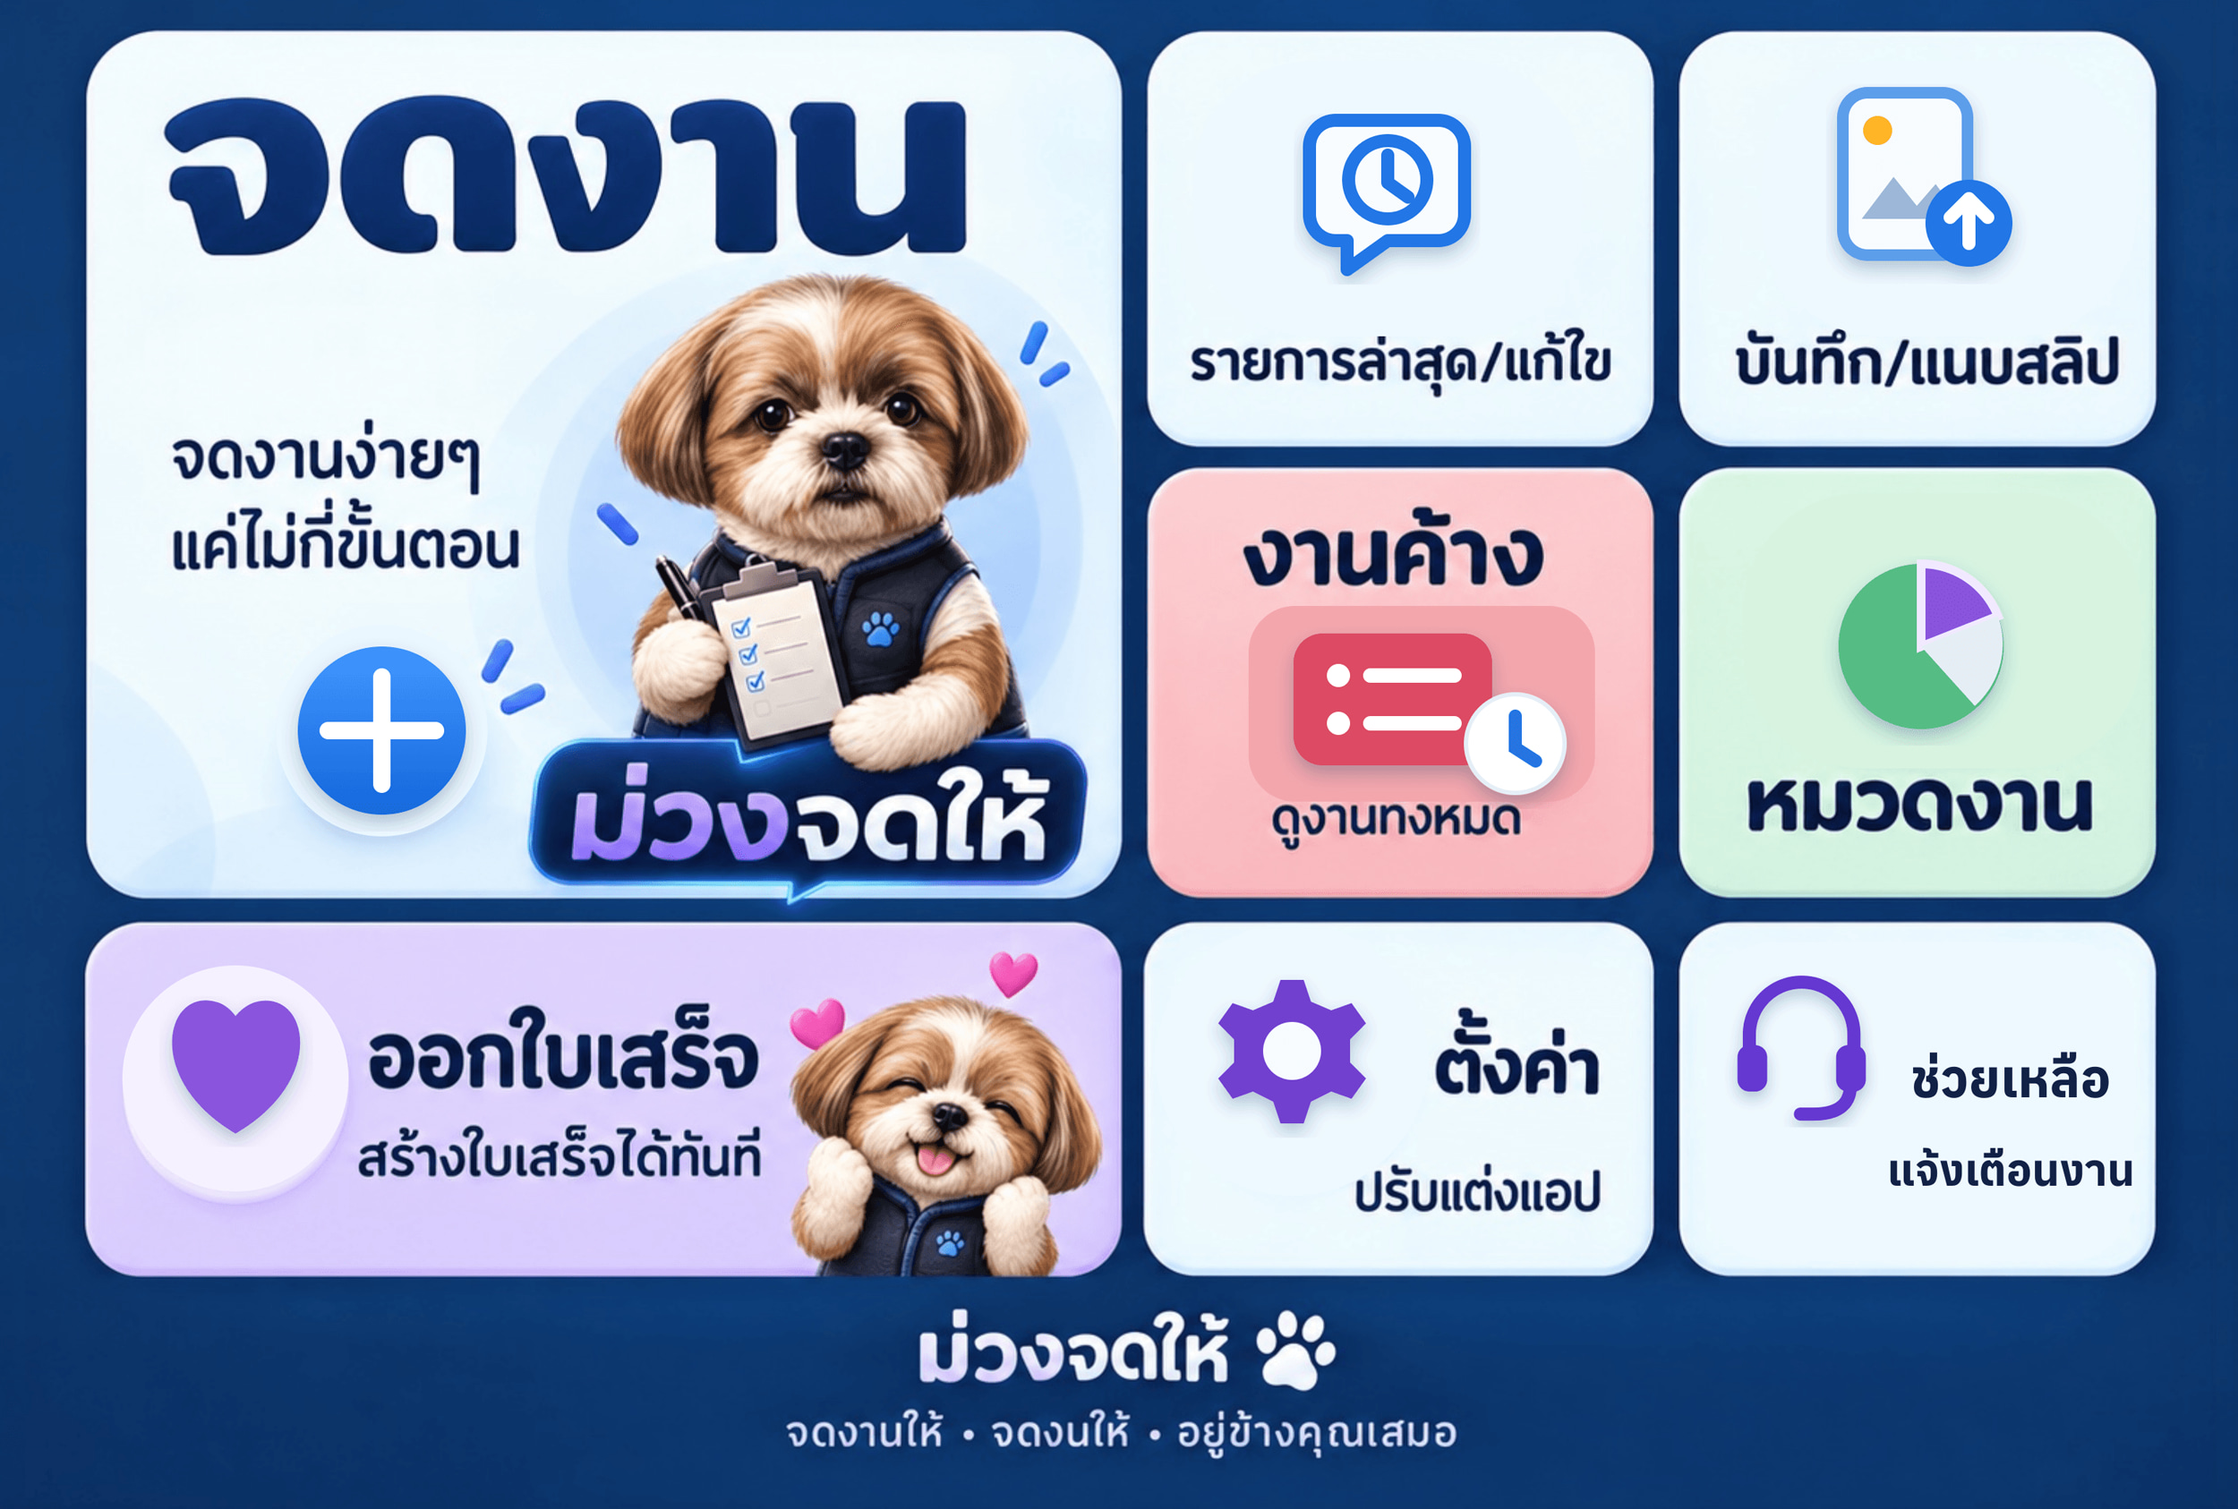
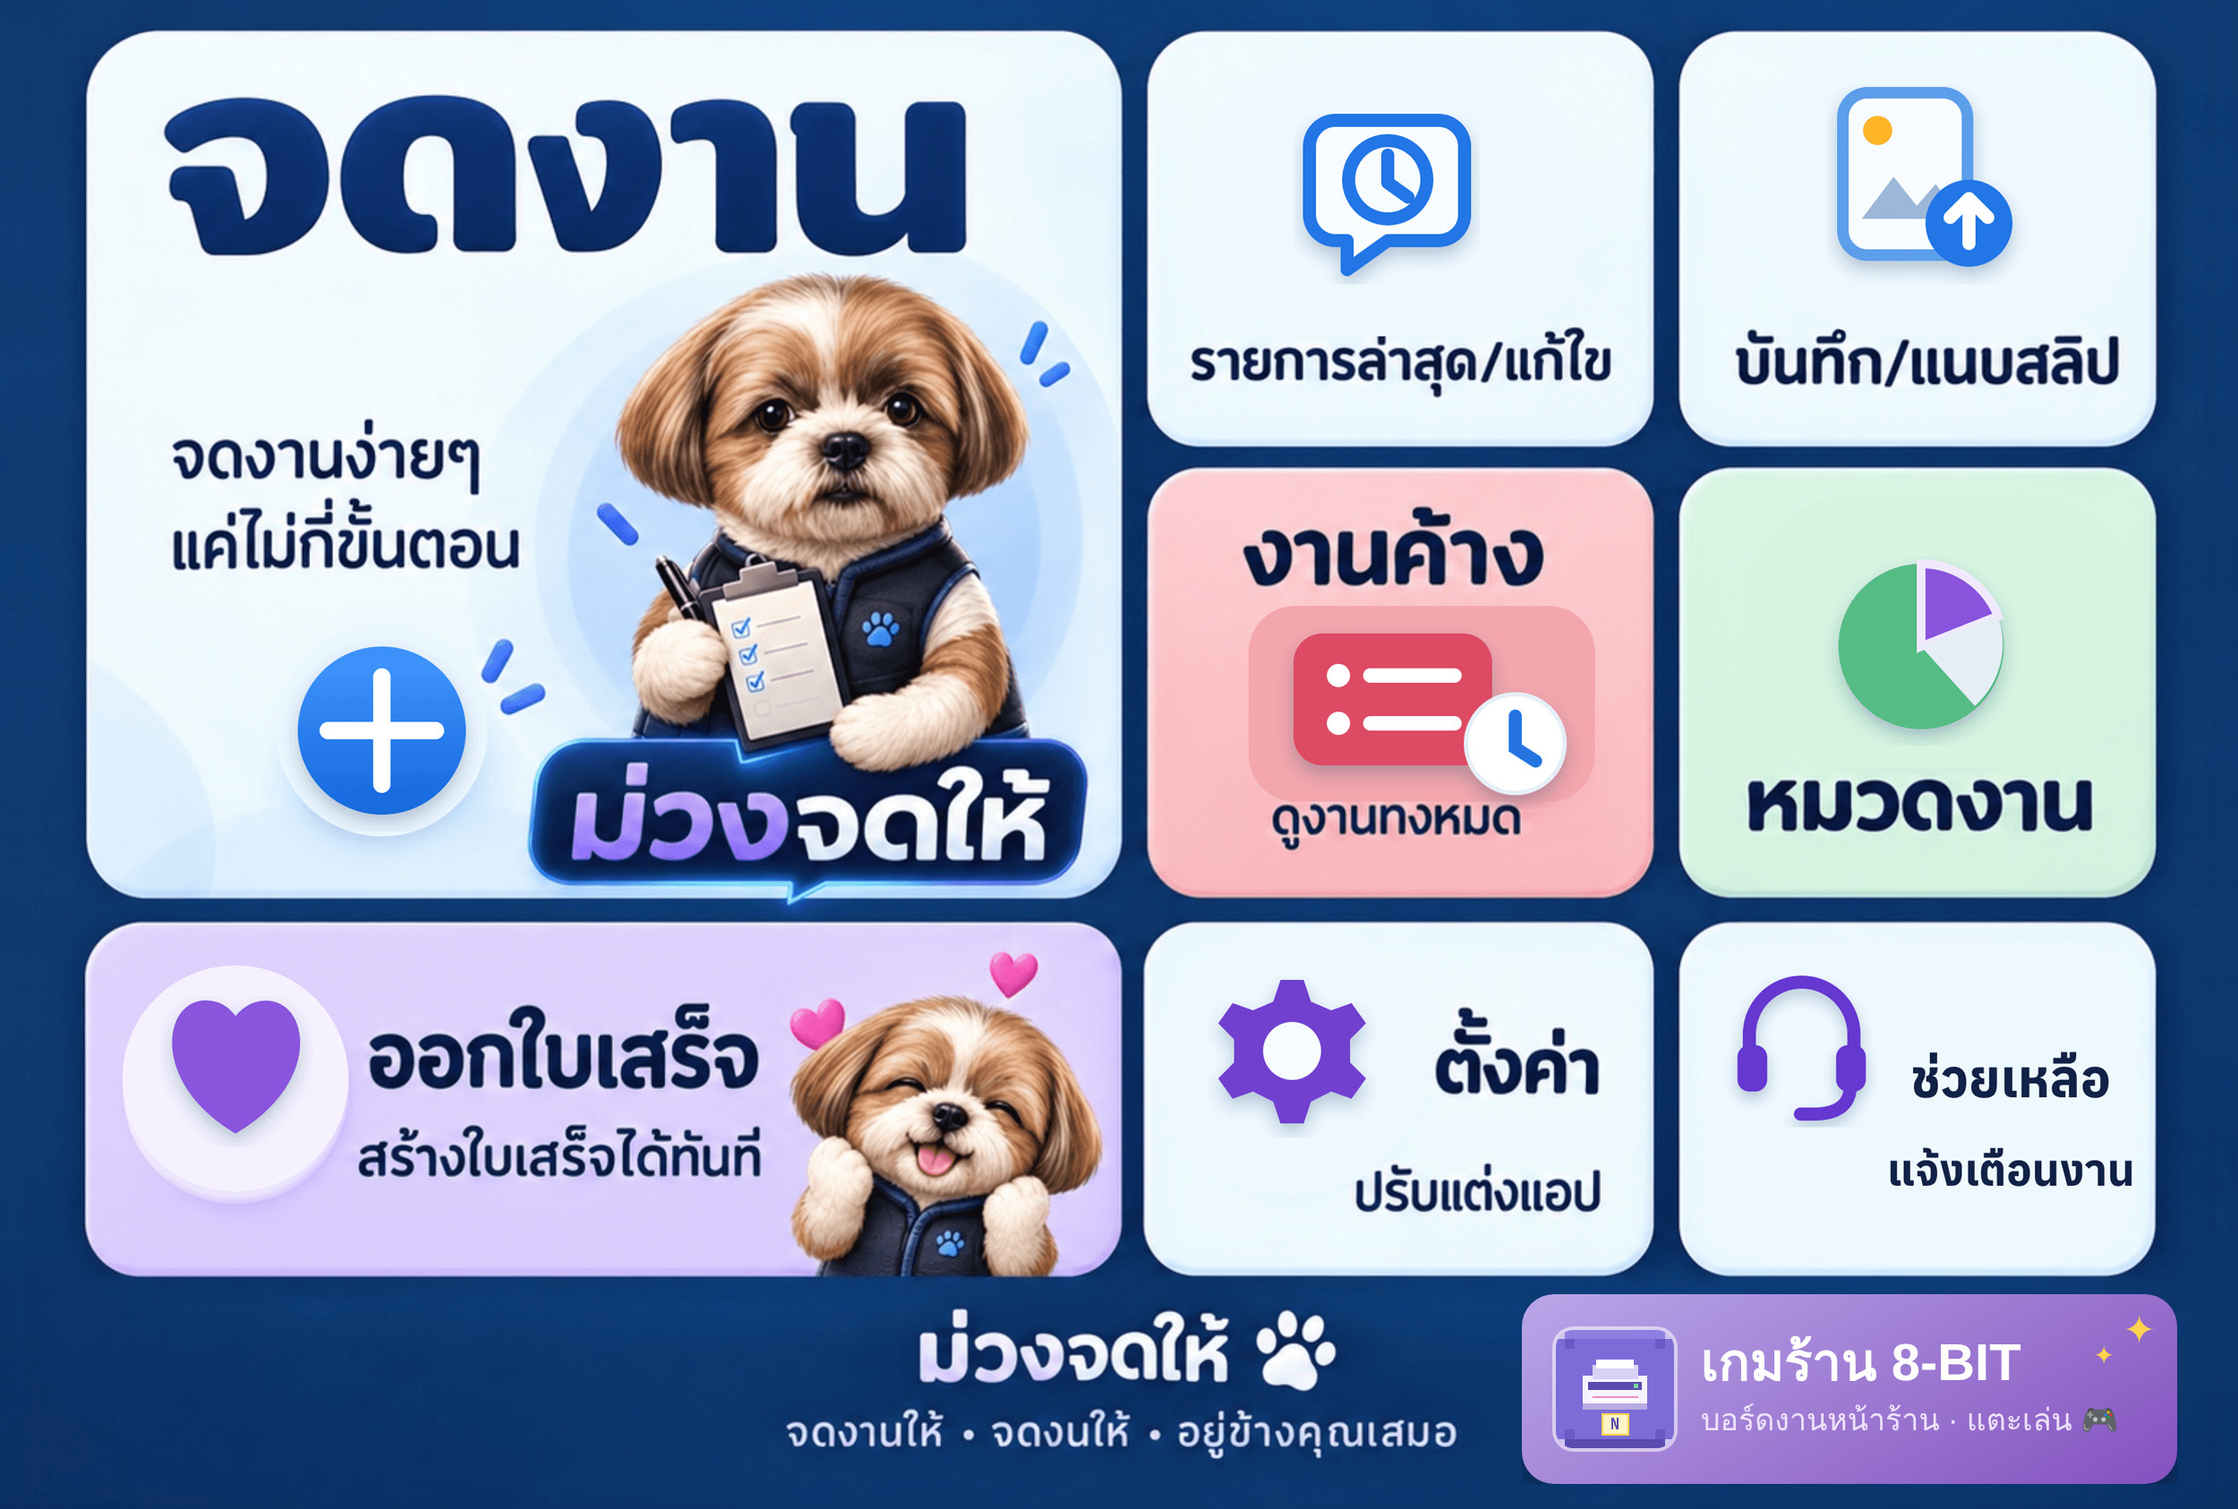
ปุ่มเกมร้าน 8-BIT บนริชเมนู — แตะแล้วเปิดเกมจากไลน์ได้เลย (#278)
ร้านสั่ง "เพิ่มไปในริชเมนู...จะได้เชื่อมในระบบ ปรับริชเมนูให้ด้วยค่ะ"
(นี่คือการอนุญาตเชื่อมเกมกับ LINE OA ตามเงื่อนไขของสเปกเกม)

- การ์ด "เกมร้าน 8-BIT ✦" วาง composite ลงมุมขวาล่างของภาพเมนูที่ร้านทำ
  (ม่วงไล่เฉด + ไอคอนเกม + แตะเล่น 🎮) ไม่แตะส่วนอื่นของภาพ encode รอบเดียว
  709KB < เพดาน 1MB ของ LINE
- พื้นที่กดเพิ่มเป็น 10 ช่อง: แถวแบรนด์หดเหลือซ้าย การ์ดเกมกินขวา
  (ต่อกันพอดีเต็มความกว้าง ไม่มีจุดบอด) ปุ่มเป็นลิงก์ PUBLIC_BASE_URL/game/
  ตรง ๆ — ไม่มีค่าก็ถอยไป postback action=open_game ให้บอตตอบลิงก์แทน
- สายข้อความครบวงจร: open_game ใน POSTBACK_ACTIONS + handler ตอบลิงก์เกม
  + พิมพ์ "เกม"/"เกมร้าน"/"เล่นเกม" ก็เปิดได้ (normalise เป็น 8-bit ตัวเล็ก)
- richmenu.json regenerate (10 พื้นที่) + stand-in ใน build-rich-menu.mjs
  วาดการ์ดเดียวกันเผื่อ redraw อนาคต + GAME_W ซิงก์สองไฟล์ตามเทสต์เรขาคณิต
- ติดตั้งเองอัตโนมัติ: ensureRichMenu ตอนบูตเห็นลายนิ้วมือภาพ/ปุ่มเปลี่ยน
  → อัปโหลดเมนูใหม่ให้เองหลัง deploy ไม่ต้องทำอะไรเพิ่ม

เทสต์: richMenu/buttonEcho ปรับตามผังใหม่ (เหตุผลคอมเมนต์กำกับ)
+ ลิงก์เกมเมื่อมี base URL + fallback เมื่อไม่มี — รวมทั้งชุด 1195 เขียว

Claude-Session: https://claude.ai/code/session_01HjQRr7qyQeJARpB6Ss4x4u

Changed region(s): [[0.6552, 0.8327, 0.9984, 0.987]]

diff --git a/tests/richMenu.test.js b/tests/richMenu.test.js
@@ -3,7 +3,7 @@ import assert from 'node:assert/strict';
 import { readFileSync } from 'node:fs';
 import { resolveMenuCommand } from '../src/utils/menuCommands.js';
 import { POSTBACK_ACTIONS } from '../src/utils/validation.js';
-import { buildAreas, LAYOUT, BUTTONS, FOOTER } from '../scripts/create-rich-menu.js';
+import { buildAreas, LAYOUT, BUTTONS, FOOTER, GAME } from '../scripts/create-rich-menu.js';
 import { richMenuObject } from '../scripts/export-rich-menu-json.mjs';
 
 // The Rich Menu is artwork plus a list of tappable rectangles, kept in step by
@@ -13,8 +13,8 @@ const builder = readFileSync(new URL('../scripts/build-rich-menu.mjs', import.me
 const nOf = (key) => Number(new RegExp(`${key} = (\\d+)`).exec(builder)?.[1]);
 
 test('every button reaches a handler, by tap and by text', () => {
-  const all = [...BUTTONS, FOOTER];
-  assert.equal(all.length, 9, 'eight cards and the brand footer');
+  const all = [...BUTTONS, FOOTER, GAME];
+  assert.equal(all.length, 10, 'eight cards, the brand footer, and the game card');
 
   for (const btn of all) {
     const action = /action=([a-z_]+)/.exec(btn.data)?.[1];
@@ -32,7 +32,7 @@ const cOf = (key) => Number(new RegExp(`${key} = (\\d+)`).exec(config)?.[1]);
 test('the artwork and the tap areas describe the same geometry', () => {
   // Both files declare the grid independently; edit one alone and the buttons
   // drift off the cards they are drawn on.
-  for (const key of ['PAD', 'GAP_X', 'GAP_Y', 'LEFT_W', 'COL_W', 'ROW_H', 'ROW3_H', 'ROW1_Y']) {
+  for (const key of ['PAD', 'GAP_X', 'GAP_Y', 'LEFT_W', 'COL_W', 'ROW_H', 'ROW3_H', 'ROW1_Y', 'GAME_W']) {
     const drawn = nOf(key);
     const tapped = cOf(key);
     assert.ok(Number.isFinite(drawn), `${key} not declared in build-rich-menu.mjs`);
@@ -45,7 +45,7 @@ test('the artwork and the tap areas describe the same geometry', () => {
 
 test('the areas stay inside the image, never overlap, and are big enough to tap', () => {
   const areas = buildAreas();
-  assert.equal(areas.length, BUTTONS.length + 1);
+  assert.equal(areas.length, BUTTONS.length + 2); // + แถวแบรนด์ + การ์ดเกม
 
   for (const { bounds, action } of areas) {
     assert.ok(bounds.width >= 200 && bounds.height >= 200, `${action.displayText}: ${bounds.width}x${bounds.height} too small`);
@@ -93,9 +93,19 @@ test('จดงาน is the biggest target, and the brand footer is tappable', 
   const biggest = areas.reduce((a, b) => (a.bounds.width * a.bounds.height >= b.bounds.width * b.bounds.height ? a : b));
   assert.equal(biggest.action.data, jot.action.data, 'จดงาน should be the largest area');
 
-  const footer = areas.at(-1);
+  // เดิมแถวแบรนด์กินเต็มความกว้าง — ตั้งแต่ร้านสั่งเชื่อมเกม (23 พ.ย. 69)
+  // ปลายขวาของแถวเป็นการ์ดเกม สองพื้นที่ต่อกันพอดีเต็มความกว้างเหมือนเดิม
+  const footer = areas.at(-2);
+  const game = areas.at(-1);
   assert.equal(footer.action.data, FOOTER.data);
   assert.equal(footer.bounds.x, 0);
-  assert.equal(footer.bounds.width, LAYOUT.width);
   assert.equal(footer.bounds.y + footer.bounds.height, LAYOUT.height);
+  assert.equal(game.action.data ?? 'action=open_game', 'action=open_game');
+  assert.equal(footer.bounds.width + game.bounds.width, LAYOUT.width);
+  assert.equal(game.bounds.x + game.bounds.width, LAYOUT.width);
+  assert.equal(game.bounds.y + game.bounds.height, LAYOUT.height);
+  // มี PUBLIC_BASE_URL → ปุ่มเกมเป็นลิงก์เปิด /game/ ตรง ๆ
+  const linked = buildAreas({ PUBLIC_BASE_URL: 'https://shop.example' }).at(-1);
+  assert.equal(linked.action.type, 'uri');
+  assert.equal(linked.action.uri, 'https://shop.example/game/');
 });

diff --git a/scripts/create-rich-menu.js b/scripts/create-rich-menu.js
@@ -4,6 +4,7 @@ import path from 'node:path';
 import { pathToFileURL } from 'node:url';
 import linebot from '@line/bot-sdk';
 import { liffUrl, quickFormUrl } from '../src/utils/liff.js';
+import { publicBaseUrl } from '../src/utils/brand.js';
 
 const { MessagingApiClient, MessagingApiBlobClient } = linebot.messagingApi;
 
@@ -35,6 +36,8 @@ const ROW3_Y = ROW2_Y + ROW_H + GAP_Y;
 const ROW3_H = 400;
 const FOOT_Y = ROW3_Y + ROW3_H;
 const FOOT_H = LAYOUT.height - FOOT_Y;
+// ปุ่มเกมร้าน กินท้ายแถวแบรนด์ด้านขวา (ร้านขอเชื่อมเกมเข้าริชเมนู)
+const GAME_W = 840;
 
 // A tap area is grown to the gutter around its card, so a press that lands
 // between two cards still does something rather than nothing.
@@ -72,15 +75,26 @@ const BUTTONS = [
 ];
 
 // The brand footer. It reads as decoration, which is exactly why the old menu's
-// decorative panel had to be made tappable: people press the logo.
+// decorative panel had to be made tappable: people press the logo. The game
+// card now sits at its right end, so the brand's tap area stops where the
+// card's begins.
 const FOOTER = { label: 'ม่วงจดให้', data: 'action=home',
-  bounds: { x: 0, y: FOOT_Y, width: LAYOUT.width, height: FOOT_H } };
+  bounds: { x: 0, y: FOOT_Y, width: LAYOUT.width - GAME_W, height: FOOT_H } };
+
+// เกมร้าน NATTAPRON 8-BIT — เปิดหน้า /game/ ตรง ๆ (ร้านสั่งเชื่อมเองเมื่อ 23 พ.ย. 69)
+// ไม่ใช่แท็บของแอป LIFF จึงใช้ลิงก์จาก PUBLIC_BASE_URL; ไม่มีค่า → postback แทน
+const GAME = { label: 'เกมร้าน 8-BIT', data: 'action=open_game', page: 'game',
+  bounds: { x: LAYOUT.width - GAME_W, y: FOOT_Y, width: GAME_W, height: FOOT_H } };
 
 // Where a `page` button goes. 'jot' is the job form; the rest are tabs of the
 // dashboard app. Null whenever LIFF is not configured, which sends the button
 // back down the postback route.
 export function pageUrl(page, env = process.env) {
   if (!page) return null;
+  if (page === 'game') {
+    const base = publicBaseUrl(env);
+    return base ? `${base}/game/` : null;
+  }
   return page === 'jot' ? quickFormUrl({}, env) : liffUrl({ tab: page }, env);
 }
 
@@ -103,12 +117,12 @@ function area(btn, env = process.env) {
   };
 }
 
-// The nine tappable areas: eight cards, then the brand footer.
+// The ten tappable areas: eight cards, the brand footer, then the game card.
 export function buildAreas(env = process.env) {
-  return [...BUTTONS, FOOTER].map((btn) => area(btn, env));
+  return [...BUTTONS, FOOTER, GAME].map((btn) => area(btn, env));
 }
 
-export { LAYOUT, BUTTONS, FOOTER };
+export { LAYOUT, BUTTONS, FOOTER, GAME };
 
 const CONTENT_TYPES = { '.jpg': 'image/jpeg', '.jpeg': 'image/jpeg', '.png': 'image/png' };
 

diff --git a/src/actions/webLinks.js b/src/actions/webLinks.js
@@ -9,6 +9,19 @@ const PAGES = [
   ['🧾 บัญชีรายวัน', 'ledger'],
 ];
 
+// action=open_game — ปุ่มเกมบนริชเมนู: ปกติปุ่มเป็นลิงก์เปิดเกมตรง ๆ อยู่แล้ว
+// เคสนี้คือทางสำรอง (เมนูที่ส่ง label เป็นข้อความ หรือยังไม่ได้ตั้ง PUBLIC_BASE_URL)
+export async function openGame({ replyToken }) {
+  const base = publicBaseUrl();
+  if (!base) {
+    return reply(replyToken, { type: 'text', text: 'ยังเปิดเกมไม่ได้ค่ะ ต้องตั้ง PUBLIC_BASE_URL ใน Render ก่อนนะคะ 💜' });
+  }
+  return reply(replyToken, {
+    type: 'text',
+    text: `🎮 เกมร้านนัฐภรณ์ 8-BIT เปิดเล่นได้เลยค่ะ\n${base}/game/\n\nบอร์ดงานหน้าร้านแบบเกม — คิวงาน รถส่งไวนิล และน้องหมาบนเคาน์เตอร์ 💜`,
+  });
+}
+
 // action=web_links — ลิงก์เปิดบนคอม/เบราว์เซอร์ ตอนไม่ได้ถือโทรศัพท์
 export async function webLinks({ replyToken }) {
   const base = publicBaseUrl();

diff --git a/tests/buttonEcho.test.js b/tests/buttonEcho.test.js
@@ -72,8 +72,10 @@ test('menu buttons that only open a page go straight there', () => {
 
 test('with no LIFF app the same buttons still work, through the bot', () => {
   assert.equal(pageUrl('jot', {}), null);
+  assert.equal(pageUrl('game', {}), null); // ไม่มี PUBLIC_BASE_URL → ปุ่มเกมก็ถอยไป postback
   const areas = buildAreas({});
-  assert.equal(areas.length, 9);
-  assert.equal(areas.filter((a) => a.action.type === 'postback').length, 9);
+  assert.equal(areas.length, 10); // 9 เดิม + การ์ดเกม (ร้านสั่งเชื่อม 23 พ.ย. 69)
+  assert.equal(areas.filter((a) => a.action.type === 'postback').length, 10);
   assert.equal(areas.find((a) => a.action.label === 'จดงาน').action.data, 'action=add_job');
+  assert.equal(areas.find((a) => a.action.label === 'เกมร้าน 8-BIT').action.data, 'action=open_game');
 });

diff --git a/src/utils/menuCommands.js b/src/utils/menuCommands.js
@@ -17,6 +17,11 @@ const COMMANDS = new Map([
   ['บันทึก/แนบสลิป', 'attach_evidence'],
   ['งานค้าง', 'pending_payment'],
   ['ตั้งค่า', 'open_dashboard'],
+  // ปุ่มเกมร้าน (มุมขวาล่างของริชเมนู) — เปิดเกม NATTAPRON 8-BIT ที่ /game/
+  ['เกมร้าน 8-bit', 'open_game'], // normalise() lower-cases latin ก่อนเทียบ
+  ['เกมร้าน', 'open_game'],
+  ['เกม', 'open_game'],
+  ['เล่นเกม', 'open_game'],
   // The small captions printed under a button. A menu whose buttons send text
   // can be built to send either line, and a shop reading the artwork may type
   // the caption rather than the heading.

diff --git a/src/handlers/postbackHandler.js b/src/handlers/postbackHandler.js
@@ -37,7 +37,7 @@ import { nudgeOff, nudgeOn, nudgeTest } from '../actions/nudge.js';
 import { quickJob } from '../actions/quickJob.js';
 import { aiCost } from '../actions/aiCost.js';
 import { moneyList } from '../actions/moneyList.js';
-import { webLinks } from '../actions/webLinks.js';
+import { webLinks, openGame } from '../actions/webLinks.js';
 import { reviewJobs, reviewAnswer } from '../actions/reviewJobs.js';
 import {
   checkinHasWork,
@@ -141,6 +141,8 @@ export async function handlePostback(event, profile) {
       return home(ctx);
     case 'open_dashboard':
       return openDashboard(ctx);
+    case 'open_game':
+      return openGame(ctx);
     case 'remind_job':
       return remindPrompt(ctx);
     case 'set_reminder':

diff --git a/src/utils/validation.js b/src/utils/validation.js
@@ -26,6 +26,7 @@ export const POSTBACK_ACTIONS = [
   'bill_payment',
   'view_receipt',
   'open_dashboard',
+  'open_game',
   'remind_job',
   'set_reminder',
   'cancel_reminder',
